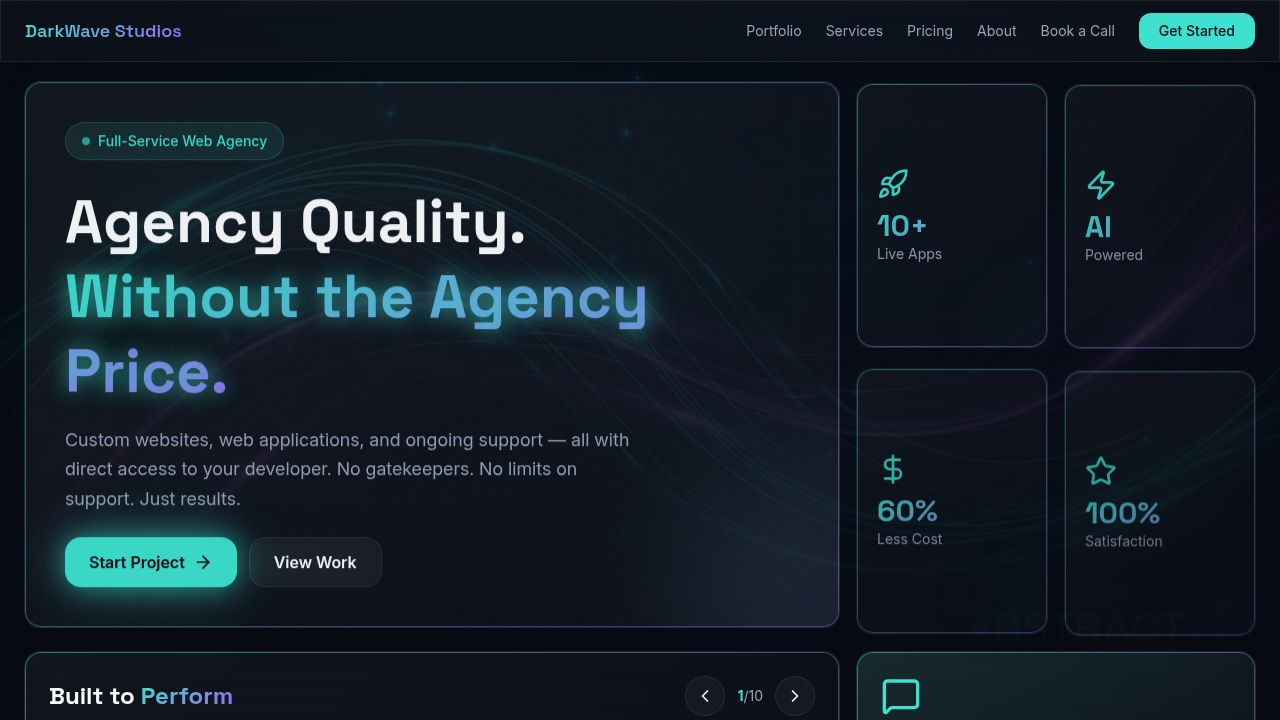
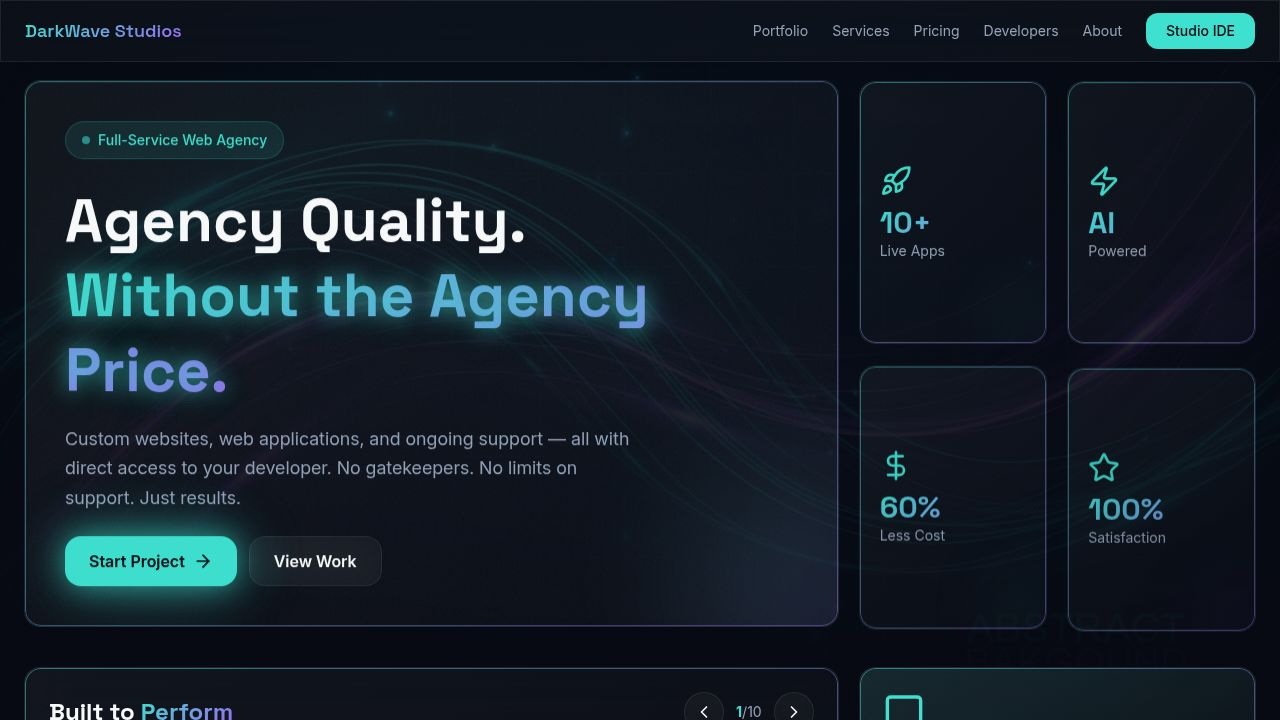
Add a dedicated section for the Studio IDE and update service images
Introduce a new featured section for the DarkWave Studio IDE and replace existing service card images with photorealistic visuals.

Replit-Commit-Author: Agent
Replit-Commit-Session-Id: fd631e83-bc81-4f88-98c7-1c24e1e757e1
Replit-Commit-Checkpoint-Type: intermediate_checkpoint
Replit-Commit-Event-Id: b7facde3-ac1f-4ee2-ad71-51b07e6ddc71
Replit-Commit-Screenshot-Url: https://storage.googleapis.com/screenshot-production-us-central1/58d7295e-4eca-40d3-ac5d-67adee4e19c6/fd631e83-bc81-4f88-98c7-1c24e1e757e1/siAIgJs
Replit-Helium-Checkpoint-Created: true

diff --git a/client/src/pages/Home.tsx b/client/src/pages/Home.tsx
@@ -20,7 +20,9 @@ import {
   Shield,
   Users,
   Menu,
-  X
+  X,
+  ExternalLink,
+  Terminal
 } from "lucide-react";
 import {
   Accordion,
@@ -37,6 +39,9 @@ import domainImg from "@assets/generated_images/domain_hosting_servers.png";
 import designImg from "@assets/generated_images/design_branding_workspace.png";
 import appDevImg from "@assets/generated_images/app_development_devices.png";
 import maintenanceImg from "@assets/generated_images/maintenance_gears_circuits.png";
+import studioIdeImg from "@assets/images/studio-ide.png";
+import heroWorkspaceImg from "@assets/images/hero-workspace.png";
+import trustLayerImg from "@assets/images/trust-layer.png";
 
 const projects = [
   {
@@ -497,6 +502,76 @@ export default function Home() {
                 <div className="text-muted-foreground text-sm">Satisfaction</div>
                 <div className="absolute -right-4 -bottom-4 w-16 h-16 bg-accent/10 rounded-full blur-2xl" />
               </div>
+            </AnimatedElement>
+          </section>
+
+          {/* STUDIO IDE FEATURED SECTION */}
+          <section className="grid grid-cols-3 lg:grid-cols-12 gap-3 lg:gap-5 mb-6 lg:mb-10">
+            <AnimatedElement delay={100} className="col-span-3 lg:col-span-8">
+              <a 
+                href="https://darkwavestudios.io/studio" 
+                target="_blank"
+                rel="noopener noreferrer"
+                className="block glass-card rounded-xl lg:rounded-2xl p-4 lg:p-8 gradient-border relative overflow-hidden group hover-lift h-full"
+                data-testid="studio-ide-card"
+              >
+                <div 
+                  className="absolute inset-0 bg-cover bg-center opacity-20 group-hover:opacity-30 transition-opacity"
+                  style={{ backgroundImage: `url(${studioIdeImg})` }}
+                />
+                <div className="absolute inset-0 bg-gradient-to-r from-background via-background/90 to-transparent" />
+                <div className="relative z-10 flex flex-col lg:flex-row items-start lg:items-center gap-4 lg:gap-8">
+                  <div className="w-14 h-14 lg:w-20 lg:h-20 rounded-xl lg:rounded-2xl bg-gradient-to-br from-primary/30 to-accent/30 backdrop-blur-sm flex items-center justify-center flex-shrink-0 group-hover:scale-110 transition-transform">
+                    <Terminal className="w-7 h-7 lg:w-10 lg:h-10 text-primary" />
+                  </div>
+                  <div className="flex-1">
+                    <div className="inline-flex items-center gap-2 bg-primary/10 border border-primary/20 rounded-full px-3 py-1 mb-2 lg:mb-3">
+                      <span className="w-2 h-2 bg-green-400 rounded-full animate-pulse" />
+                      <span className="text-[10px] lg:text-xs font-medium text-primary">Now Available</span>
+                    </div>
+                    <h3 className="text-lg lg:text-3xl font-bold font-display mb-1 lg:mb-2">
+                      DarkWave <span className="gradient-text">Studio IDE</span>
+                    </h3>
+                    <p className="text-muted-foreground text-xs lg:text-base max-w-xl">
+                      Build faster with our AI-powered development environment. Modern tools, seamless deployment, and collaborative workflows — all in one place.
+                    </p>
+                  </div>
+                  <div className="flex items-center gap-2 text-primary font-semibold text-sm lg:text-base group-hover:gap-3 transition-all">
+                    Launch IDE
+                    <ExternalLink className="w-4 h-4 lg:w-5 lg:h-5" />
+                  </div>
+                </div>
+              </a>
+            </AnimatedElement>
+
+            <AnimatedElement delay={150} className="col-span-3 lg:col-span-4">
+              <a 
+                href="/hub" 
+                className="block glass-card rounded-xl lg:rounded-2xl p-4 lg:p-8 gradient-border relative overflow-hidden group hover-lift h-full"
+                data-testid="trust-layer-card"
+              >
+                <div 
+                  className="absolute inset-0 bg-cover bg-center opacity-20 group-hover:opacity-30 transition-opacity"
+                  style={{ backgroundImage: `url(${trustLayerImg})` }}
+                />
+                <div className="absolute inset-0 bg-gradient-to-t from-background via-background/80 to-transparent" />
+                <div className="relative z-10 h-full flex flex-col justify-between">
+                  <div>
+                    <div className="w-12 h-12 lg:w-14 lg:h-14 rounded-xl bg-gradient-to-br from-accent/30 to-primary/30 backdrop-blur-sm flex items-center justify-center mb-3 lg:mb-4 group-hover:scale-110 transition-transform">
+                      <Shield className="w-6 h-6 lg:w-7 lg:h-7 text-accent" />
+                    </div>
+                    <h3 className="text-base lg:text-xl font-bold font-display mb-1 lg:mb-2">
+                      Trust Layer <span className="gradient-text">Hub</span>
+                    </h3>
+                    <p className="text-muted-foreground text-[10px] lg:text-sm">
+                      Blockchain-verified code marketplace and developer ecosystem.
+                    </p>
+                  </div>
+                  <div className="flex items-center gap-2 text-primary font-medium text-xs lg:text-sm mt-3 group-hover:gap-3 transition-all">
+                    Explore <ArrowRight className="w-3 h-3 lg:w-4 lg:h-4" />
+                  </div>
+                </div>
+              </a>
             </AnimatedElement>
           </section>
 
